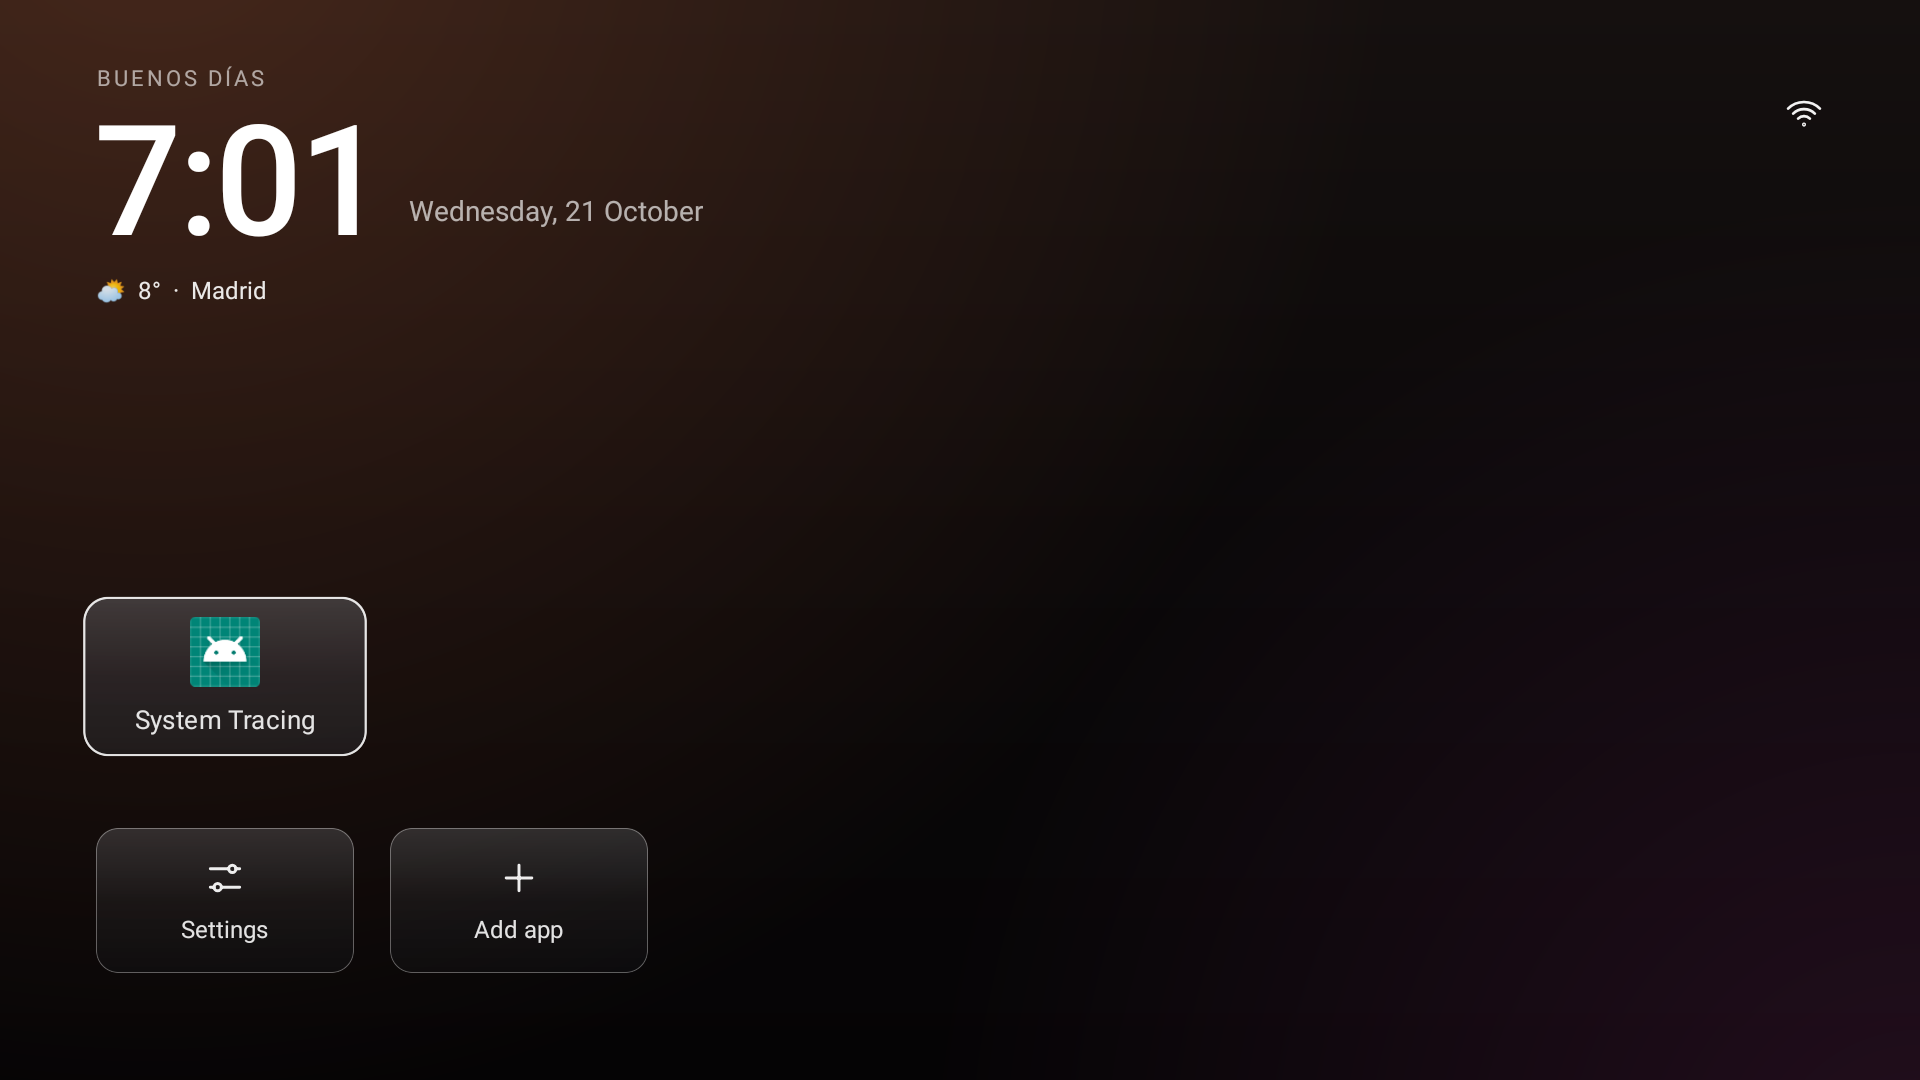
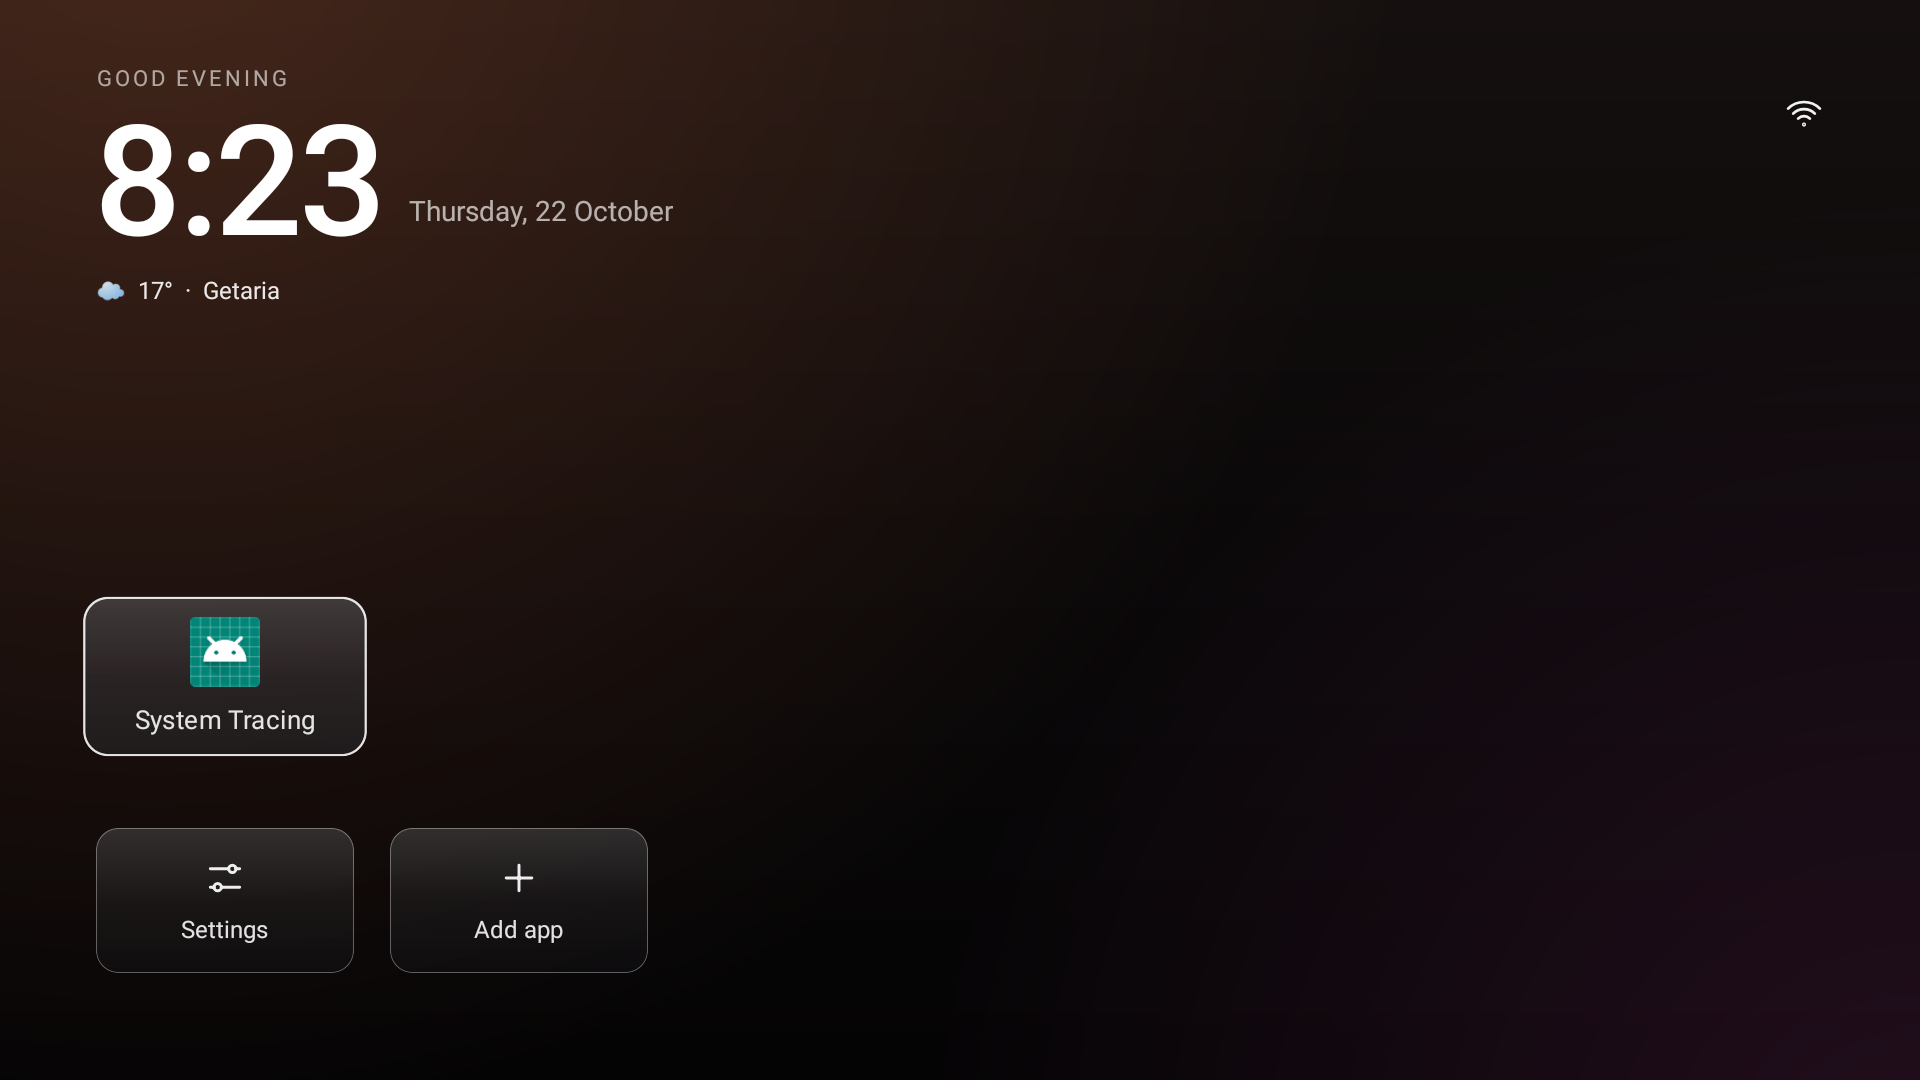
Show the Extra large weather mode in the README
Refresh both emulator screenshots from run 39848044061 and add the Extra large weather captures (today's high/low and the seven-day strip) to the English and Spanish READMEs.

Changed region(s): [[0.0312, 0.0917, 0.375, 0.2139], [0.0312, 0.2444, 0.1562, 0.275], [0.0625, 0.0611, 0.1562, 0.0917]]

diff --git a/README.es.md b/README.es.md
@@ -29,6 +29,12 @@ Las capturas siguientes proceden de las pruebas automatizadas en emuladores Andr
 |---|---|
 | ![Captura de TV Detox AMG en emulador Android TV API 28](docs/screenshots/smoke-api28.png) | ![Captura de TV Detox AMG en emulador Android TV API 30](docs/screenshots/smoke-api30.png) |
 
+El tiempo en el modo Extra grande: la misma línea que Grande, la máxima y la mínima de hoy y la fila de siete días con el cielo, la máxima y la mínima de cada día.
+
+| Emulador Android TV · API 28 | Emulador Android TV · API 30 |
+|---|---|
+| ![Modo de tiempo Extra grande en emulador Android TV API 28](docs/screenshots/smoke-api28-xlarge.png) | ![Modo de tiempo Extra grande en emulador Android TV API 30](docs/screenshots/smoke-api30-xlarge.png) |
+
 ## Pruébalo
 
 Descarga el artefacto **tvhome-apk** de una ejecución correcta de [GitHub Actions](https://github.com/maestrea76/TV-Detox-AMG/actions/workflows/build.yml). Abre la ejecución, descarga y descomprime el artefacto e instala `tvhome.apk` en el Android TV. Las compilaciones se firman con la clave del proyecto, así que las actualizaciones se instalan encima de versiones anteriores de TV Detox AMG. Si vienes de una copia firmada con otra clave, Android podría pedir desinstalarla antes; desinstalarla no revierte otros cambios de limpieza del televisor.

diff --git a/README.md b/README.md
@@ -29,6 +29,12 @@ The screenshots below were captured by the automated Android TV emulator tests. 
 |---|---|
 | ![TV Detox AMG screenshot from Android TV emulator API 28](docs/screenshots/smoke-api28.png) | ![TV Detox AMG screenshot from Android TV emulator API 30](docs/screenshots/smoke-api30.png) |
 
+Weather in the Extra large mode: the same line as Large, today's high and low, and the seven-day strip with each day's sky, high and low.
+
+| Android TV emulator · API 28 | Android TV emulator · API 30 |
+|---|---|
+| ![Extra large weather mode on Android TV emulator API 28](docs/screenshots/smoke-api28-xlarge.png) | ![Extra large weather mode on Android TV emulator API 30](docs/screenshots/smoke-api30-xlarge.png) |
+
 ## Try it
 
 Download the **tvhome-apk** artifact from a successful [GitHub Actions run](https://github.com/maestrea76/TV-Detox-AMG/actions/workflows/build.yml). Open the run, download and extract the artifact, then install `tvhome.apk` on your Android TV. Builds are signed with the project's key, so updates install over previous TV Detox AMG versions. If you are coming from a copy signed with a different key, Android may ask you to uninstall it first; removing the app does not undo any separate debloating changes.
